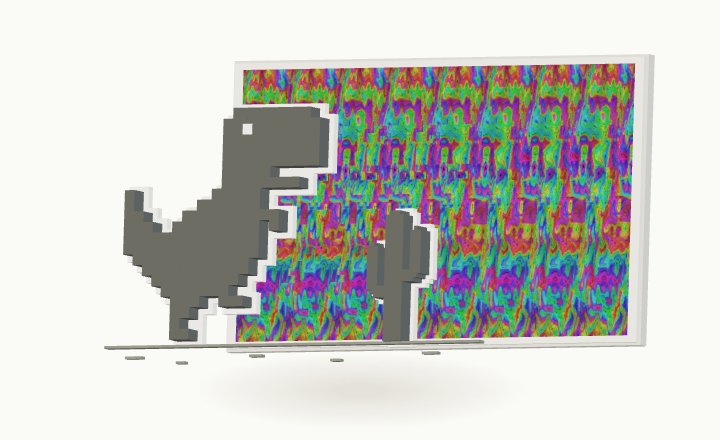
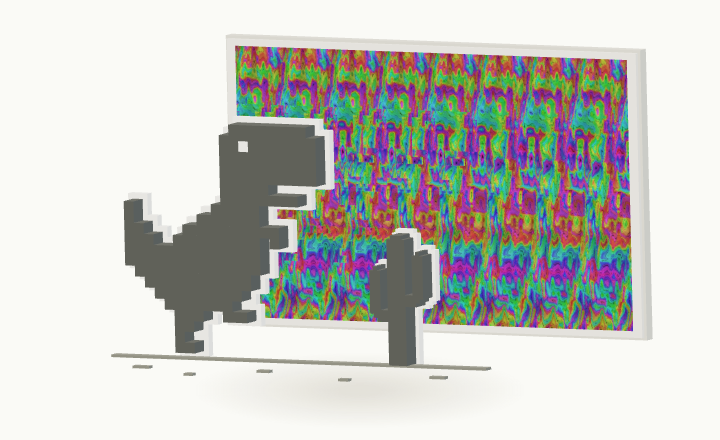
Tilt the stereogram card slightly downward at rest

diff --git a/project-models.js b/project-models.js
@@ -498,7 +498,7 @@ function createStereogramRunner() {
   const group = new THREE.Group();
   group.name = 'Stereogram Runner — Chromium pixel runner in front of a stereogram';
   const layers = new THREE.Group();
-  layers.rotation.y = -0.22;
+  layers.rotation.set(0.22, -0.22, 0);
   group.add(layers);
   const paper = enamel('#f5f2e9', 0.68, 0.03);
   const edge = enamel('#d5d4c9', 0.65, 0.06);
